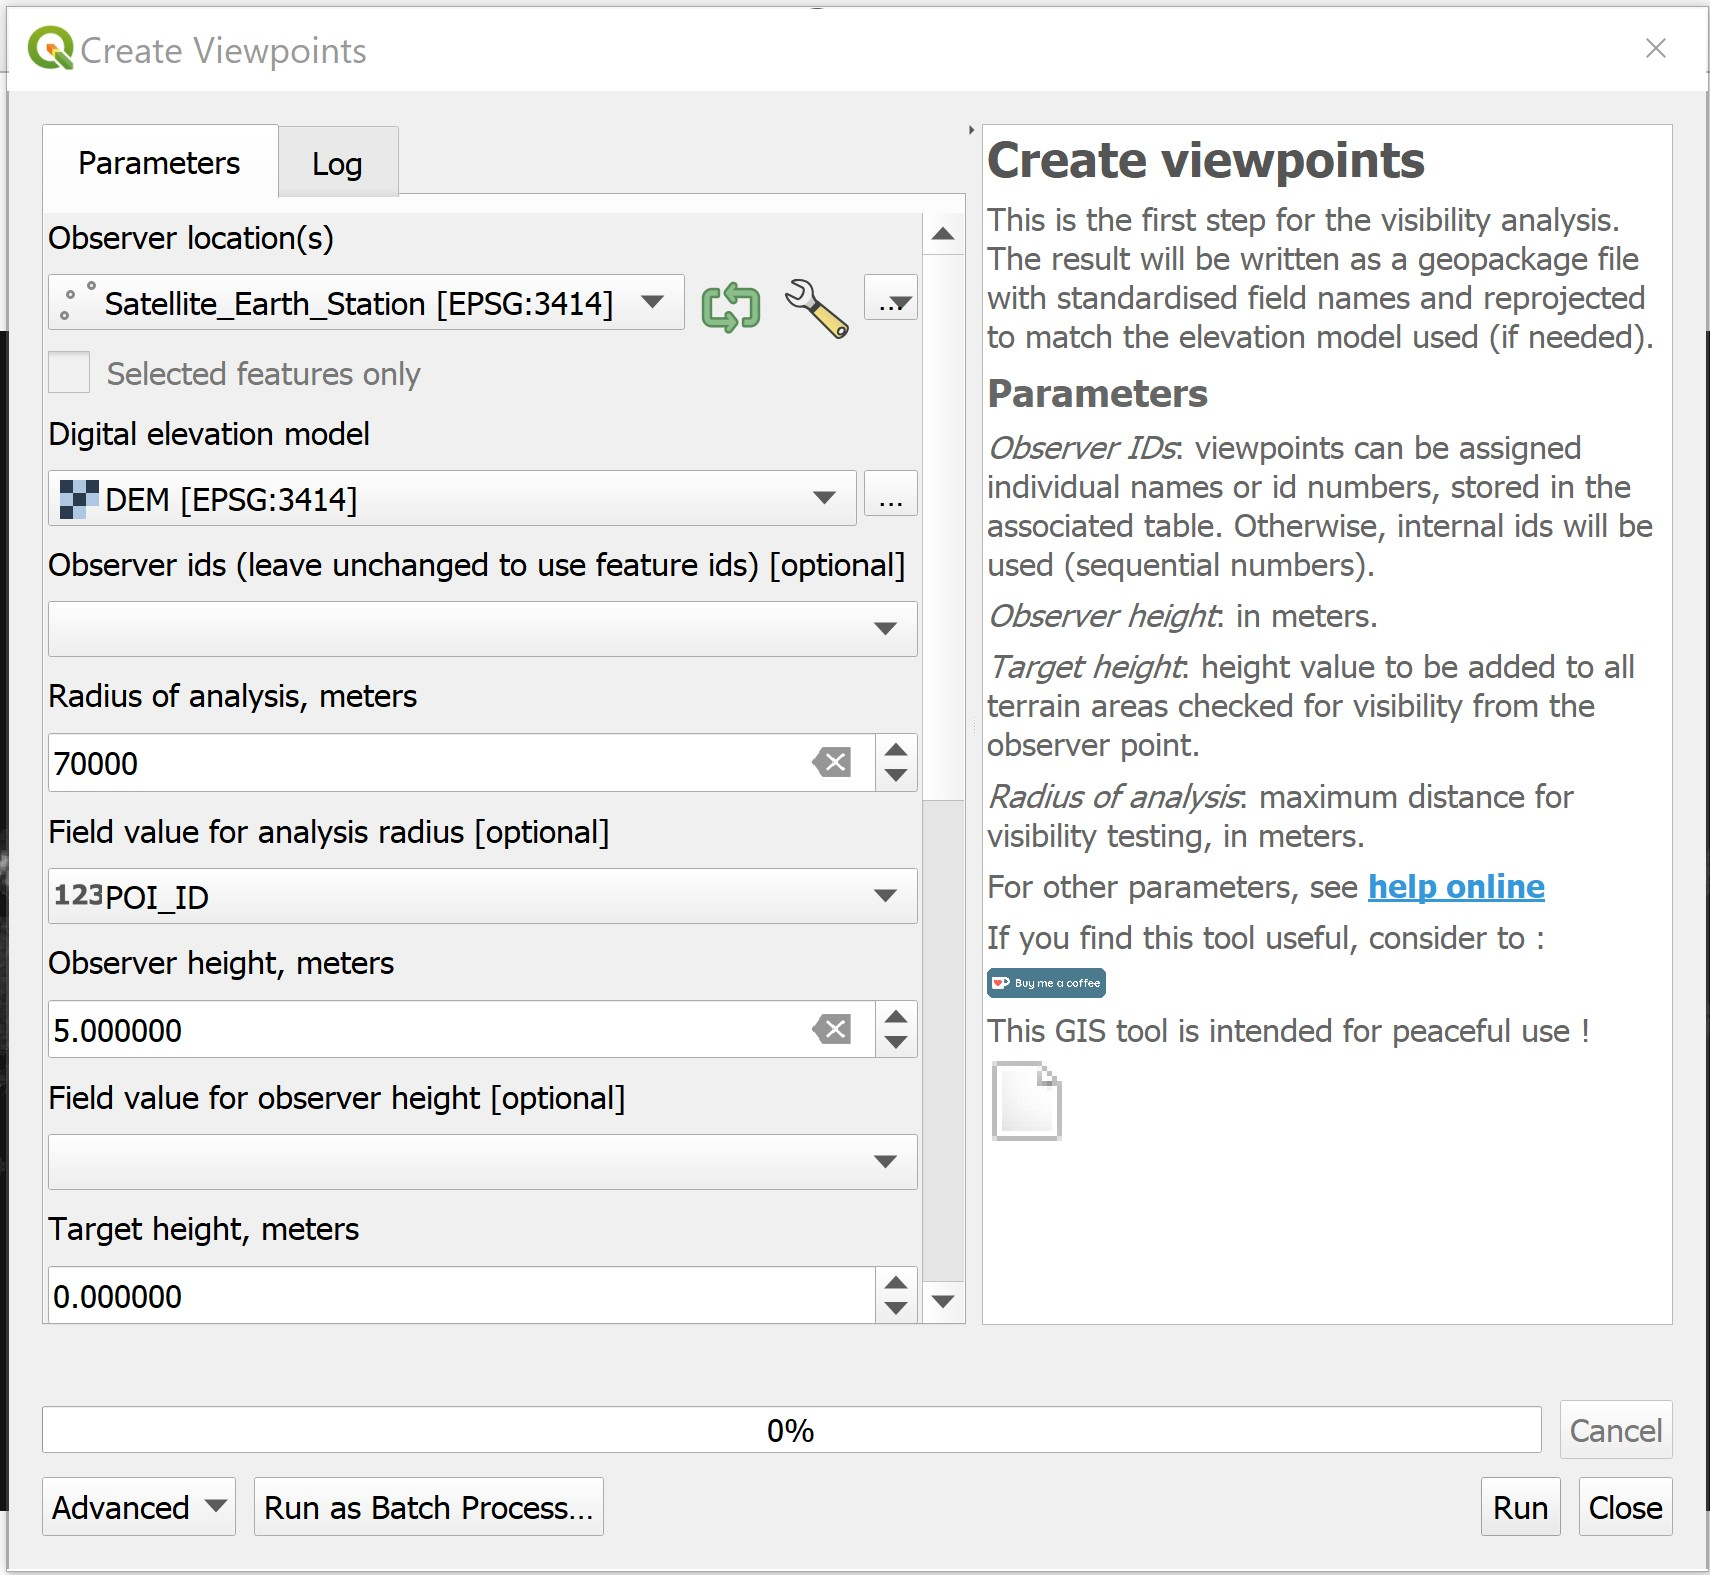
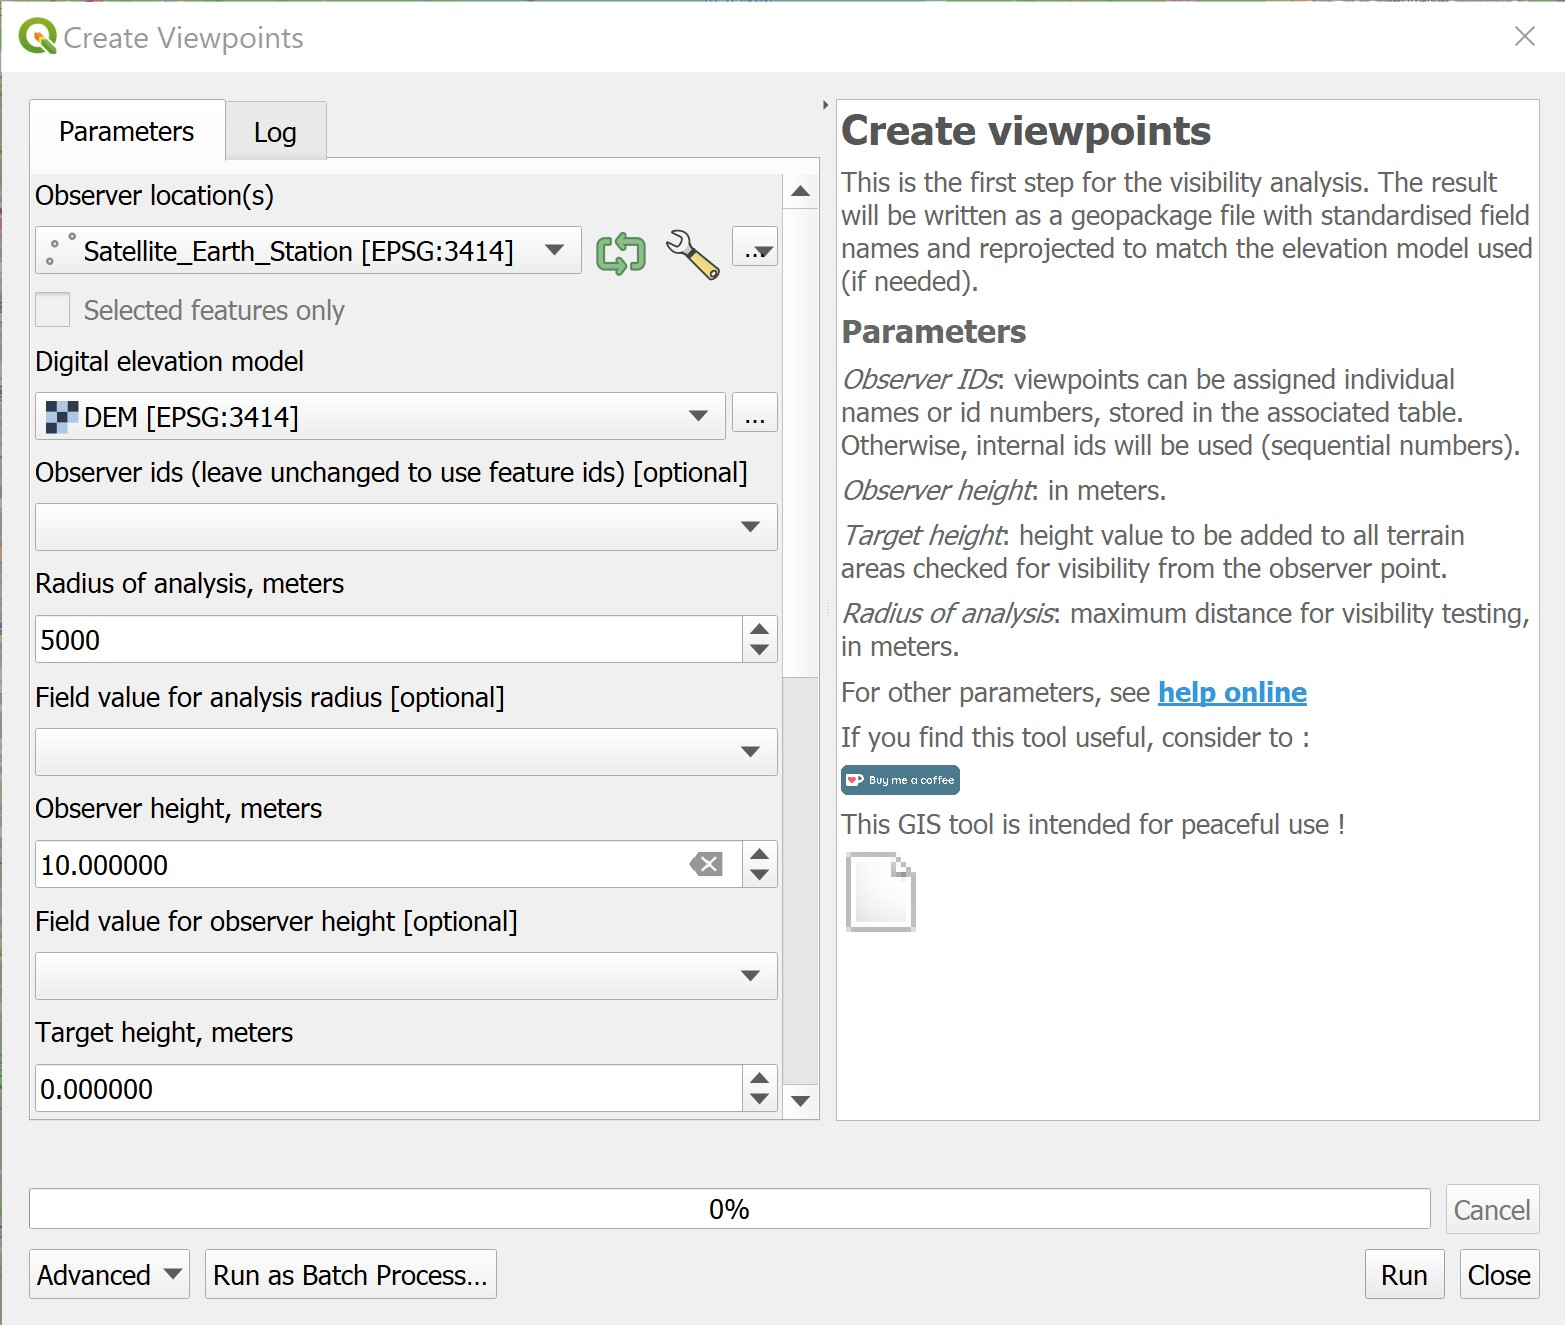
Revised section 7.6.5.3

Changed region(s): [[0.0, 0.0, 1.0, 1.0], [0.4294, 0.8974, 0.4907, 0.9283]]

diff --git a/_book/Hands-on_Ex06.html b/_book/Hands-on_Ex06.html
@@ -677,8 +677,8 @@ Visibility analysis proves useful when selecting the best or optimal locations i
 <ul>
 <li><p>For <strong>Observer location(s)</strong>, select <em>Satellite_Earth_Station</em> from the drop-down list.</p></li>
 <li><p>For <strong>Digital elevation model</strong>, select <em>DEM</em> from the drop-down list.</p></li>
-<li><p>For <strong>Radius of analysis, meter</strong>s, type <em>70000</em>.</p></li>
-<li><p>For <strong>Observer height, meters</strong>, type <em>5</em>.</p></li>
+<li><p>For <strong>Radius of analysis, meters</strong>, type <em>5000</em>.</p></li>
+<li><p>For <strong>Observer height, meters</strong>, type <em>10</em>.</p></li>
 </ul>
 <p>Your screen should look similar to the screenshot below.</p>
 <p><img src="img06/image60.jpg" class="img-fluid"></p>
